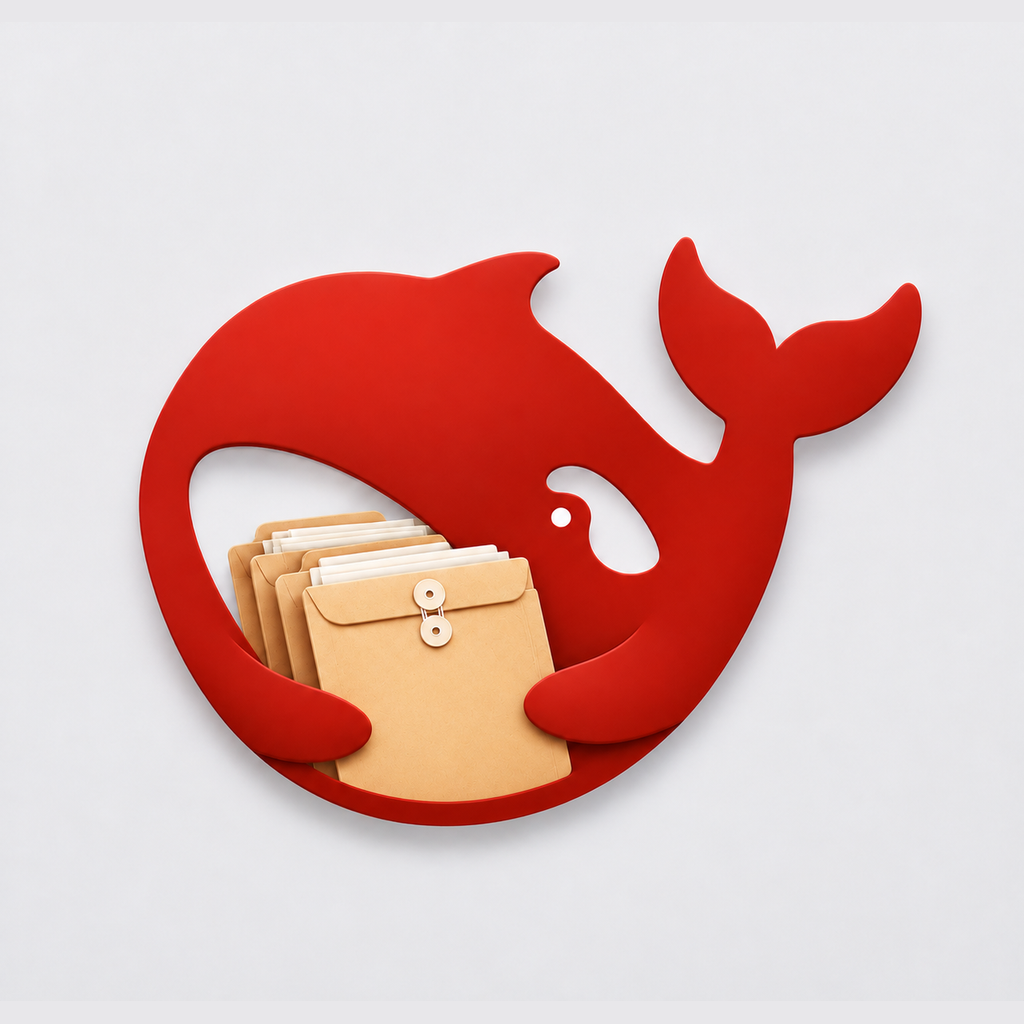
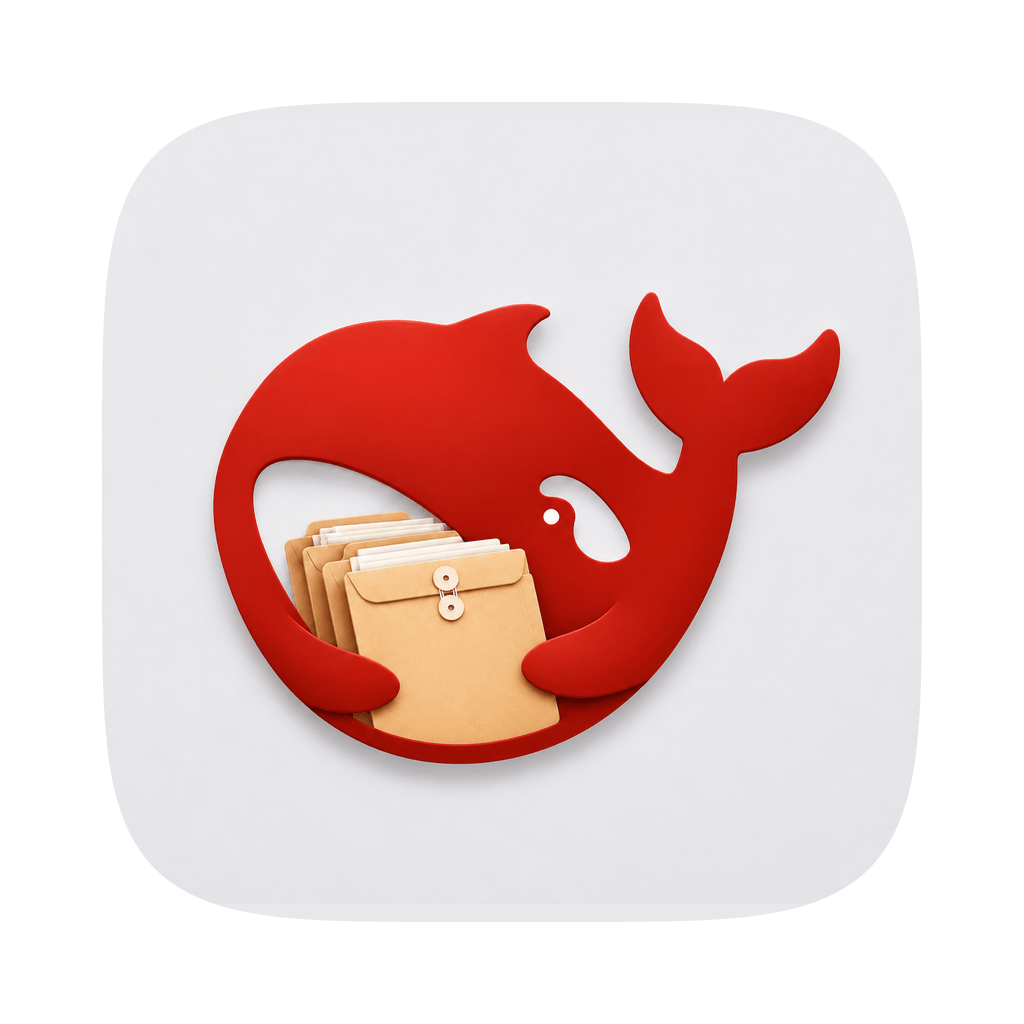
fix(desktop): Dock 图标改为圆角超椭圆
灰底原图缩进约 10%，角落透明，避免 Dock 把图标铺成直角方块。

diff --git a/apps/desktop/src/main.ts b/apps/desktop/src/main.ts
@@ -1251,7 +1251,7 @@ async function main(): Promise<void> {
   const applicationIconPath = development ? join(app.getAppPath(), 'resources', 'icon-windows.png')
     : join(process.resourcesPath, 'icon.png')
   // Packaged Dock art is the icns electron-builder builds from icon-macos.png.
-  // Development has no bundle icon, so set the same opaque studio mark directly.
+  // Development has no bundle icon, so set that same rounded studio mark directly.
   if (process.platform === 'darwin' && development) {
     app.dock?.setIcon(nativeImage.createFromPath(join(app.getAppPath(), 'resources', 'icon-macos.png')))
   }
